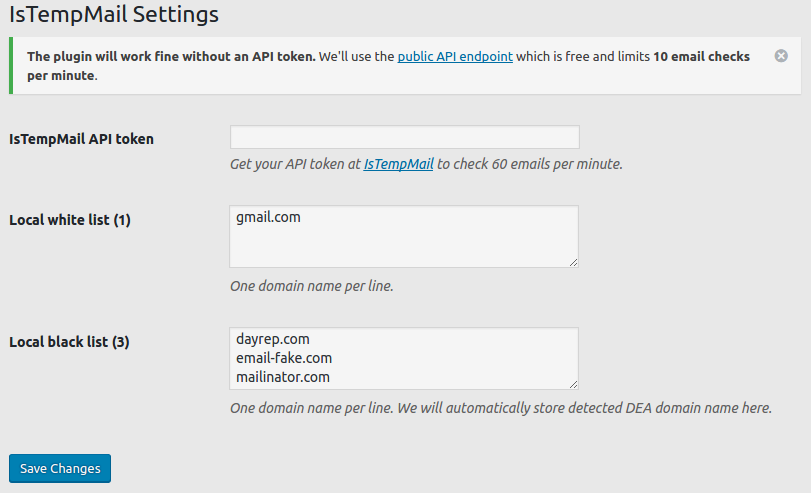
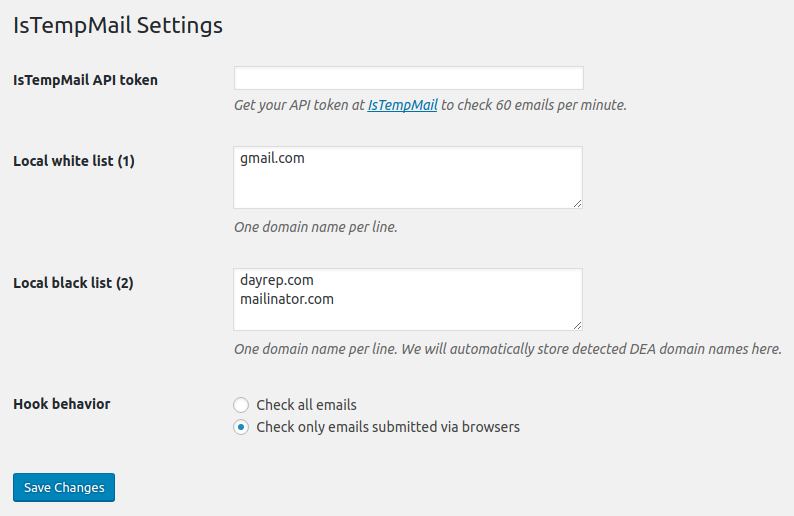
Update

diff --git a/settings.php b/settings.php
@@ -5,16 +5,6 @@ defined('ABSPATH') or die('Nope nope nope...');
 <div class="wrap">
     <h2><?php _e('IsTempMail Settings', 'block-temporary-email') ?></h2>
 
-    <?php if(!get_option('istempmail_token')) { ?>
-        <div id="setting-error-settings_updated" class="updated settings-error notice is-dismissible">
-            <p>
-                <strong><?php _e('The plugin will work fine without an API token.', 'block-temporary-email'); ?></strong>
-                <?php printf(__('We\'ll use the <a href="%s">public API endpoint</a> which is free and limits <strong>10 email checks per minute</strong>.', 'block-temporary-email'), 'https://www.istempmail.com/'); ?>
-            </p>
-            <button type="button" class="notice-dismiss"><span class="screen-reader-text">Dismiss this notice.</span></button>
-        </div>
-    <?php } ?>
-
     <form method="post" action="options.php">
         <?php settings_fields('istempmail-settings-group'); ?>
 

diff --git a/istempmail.php b/istempmail.php
@@ -2,8 +2,8 @@
 /*
   Plugin Name: Block Temporary Email
   Plugin URI: https://wordpress.org/plugins/block-temporary-email/
-  Description: This plugin will <strong>detect and block disposable, temporary, fake email address</strong> every time an email is submitted. It checks email domain name against IsTempMail service using its <a href="https://www.istempmail.com/">public API</a>, and maintains its own local blacklist. <strong>It will work immediately after activated</strong>. You do not need to register, pay or subscribe to IsTempMail service.
-  Version: 1.3.0
+  Description: This plugin will <strong>detect and block disposable, temporary, fake email address</strong> every time an email is submitted. It checks email domain name using <a href="https://www.istempmail.com/">IsTempMail API</a>, and maintains its own local blacklist.
+  Version: 1.3.1
   Author: Nguyen An Thuan
   Author URI: https://www.istempmail.com/
   License: GPLv2 or later
